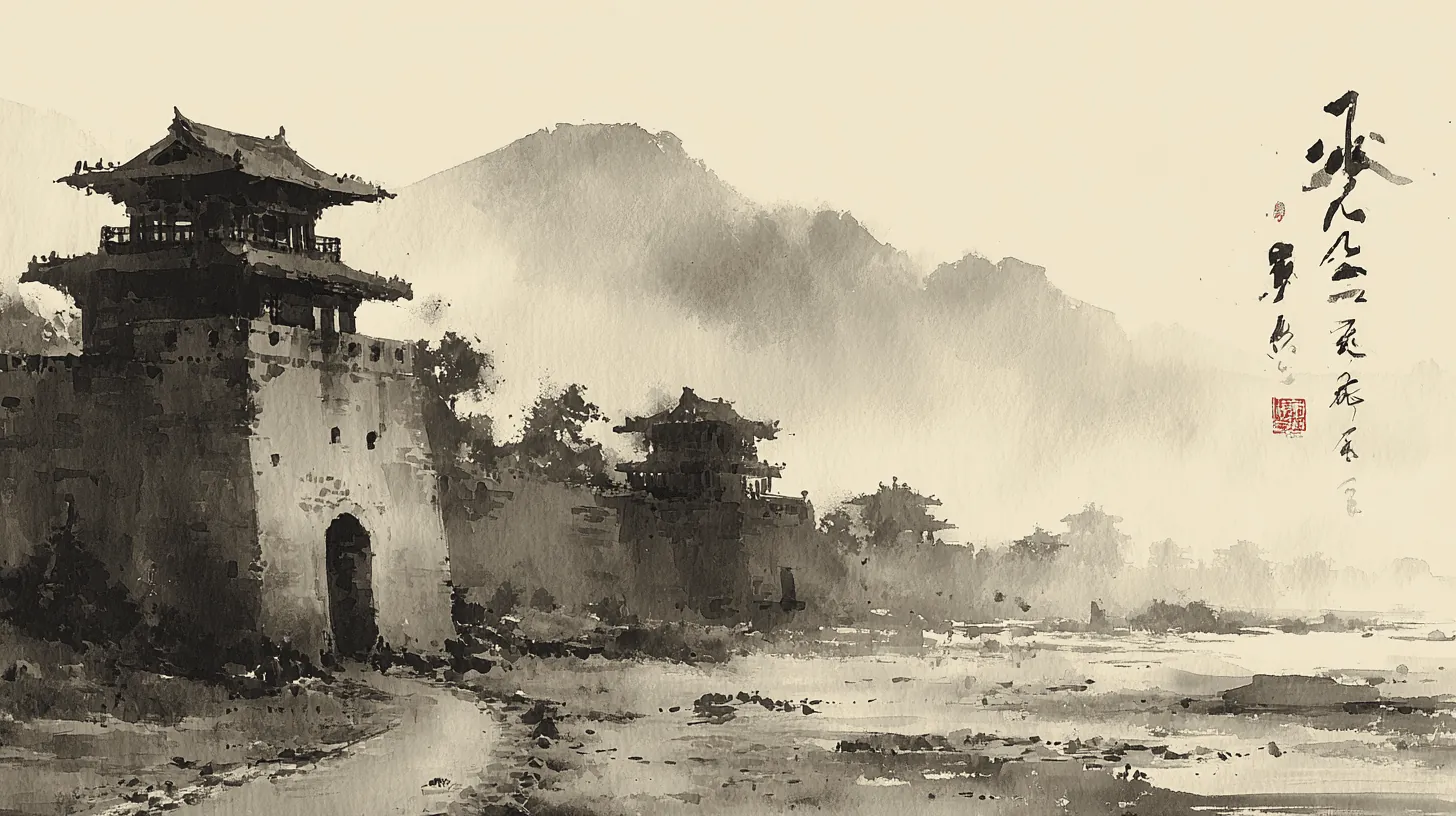
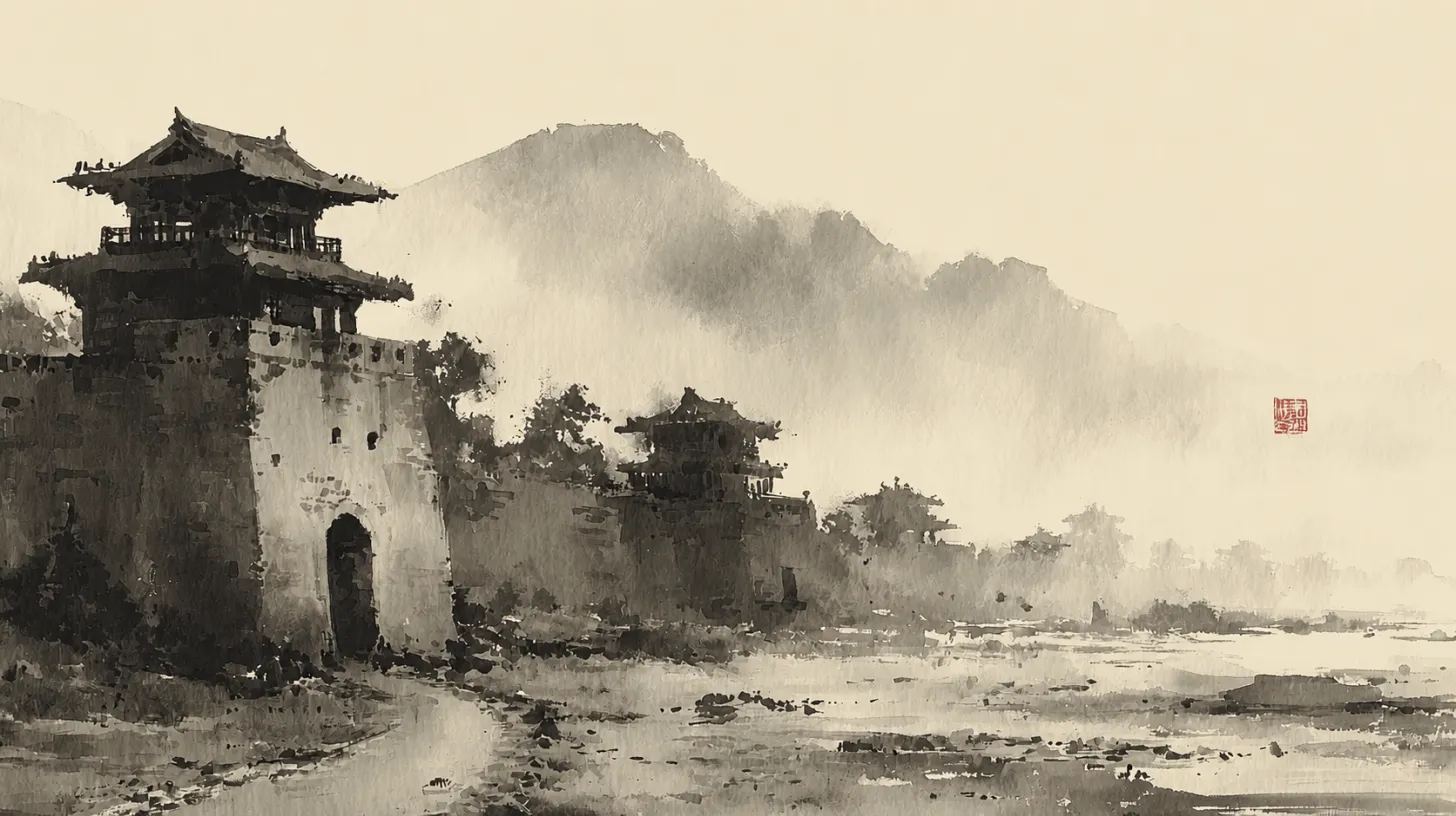
[READY] C1 场景题字清查:20 张伪题字清除+ns_02_02 返修补印(Claude 复检 20/20 过)
- battle 5+cover 3+narrative 105 张全查命中 12,题字清/朱红印章保留
- ns_02_02 返修:题字连体印误删,补左下小朱印恢复批内母题一致
- contact sheet 证据挪 build/visual_acceptance/(gitignored 不入 git);spec_check.tsv 判定表随 git
- 双验证放行制首例:用户次日复检,异议点名返修

diff --git a/REPORT_C1.md b/REPORT_C1.md
@@ -1,0 +1,196 @@
+# 夜批单 C1 · 场景图伪文字题字清查报告
+
+状态：**[READY]**
+
+- 日期：2026-08-06（执行跨至本地 2026-08-07）
+- 分支：`codex/tonight-inscription`
+- 基线：`74a7993c`
+- 范围：仅 `assets/scenes/` 内本单目标图、`docs/dispatch_evidence/inscription_2026-08-06/` 与本报告
+- Flutter：按任务要求未运行
+
+## 结果摘要
+
+- 已确认清单：8/8 张完成。
+- `narrative_stage_*.png`：105/105 张逐张放大目检；12 张有多字题字或伪字形并完成处理，93 张无目标问题、不处理。
+- 合计处理：20 张。
+- 所有处理图均保持原尺寸 `1456×816`、原数据格式 WebP（文件扩展名仍为 `.png`），以 `cwebp -q 80` 压回。
+- 放大初检：20/20 未见冒充可读文本的多字题字、伪汉字、伪英文或签名残留。
+- 印章：C1 复检返修后，本批 20/20 张均保留暗红/朱红印章母题；`narrative_stage_02_02.png` 已补回同批风格小印。
+- [BLOCKED]：无。
+
+## Phase 0 判定依据
+
+工作树检出会刷新文件系统 mtime，因此不能直接复现历史的“2026-07-02 21:17”时间戳。改用 Git 首次纳入历史确认早期批次为 `narrative_stage_01_01.png` 至 `narrative_stage_06_05.png` 共 30 张，同时仍对当前库内全部 105 张 `narrative_stage_*.png` 做了逐张放大目检；07–21 章共 75 张均无本单目标问题。
+
+### Phase 0 全量精确判定表
+
+| 文件名 | 有无题字 | 题字位置 | 是否处理 |
+|---|---|---|---|
+| `narrative_stage_01_01.png` | 无 | — | 否 |
+| `narrative_stage_01_02.png` | 有 | 左下多字题字；门侧小牌伪字形 | 是 |
+| `narrative_stage_01_03.png` | 有 | 右下多字题字 | 是 |
+| `narrative_stage_01_04.png` | 无 | — | 否 |
+| `narrative_stage_01_05.png` | 有 | 右下印章上方多字题字 | 是 |
+| `narrative_stage_02_01.png` | 有 | 右下落款；车队旗面伪字形 | 是 |
+| `narrative_stage_02_02.png` | 有 | 左下多字题字 | 是 |
+| `narrative_stage_02_03.png` | 有 | 画面中央及背景卷轴、牌匾伪字形 | 是 |
+| `narrative_stage_02_04.png` | 无 | — | 否 |
+| `narrative_stage_02_05.png` | 有 | 左下伪英文签名 | 是 |
+| `narrative_stage_03_01.png` | 有 | 左上多列题字 | 是 |
+| `narrative_stage_03_02.png` | 有 | 擂台红幡及上方中立牌匾伪字形 | 是 |
+| `narrative_stage_03_03.png` | 无 | — | 否 |
+| `narrative_stage_03_04.png` | 无 | — | 否 |
+| `narrative_stage_03_05.png` | 无 | — | 否 |
+| `narrative_stage_04_01.png` | 有 | 右上多字题字 | 是 |
+| `narrative_stage_04_02.png` | 无 | — | 否 |
+| `narrative_stage_04_03.png` | 无 | — | 否 |
+| `narrative_stage_04_04.png` | 有 | 红色、浅色军旗伪字形 | 是 |
+| `narrative_stage_04_05.png` | 无 | — | 否 |
+| `narrative_stage_05_01.png` | 无 | — | 否 |
+| `narrative_stage_05_02.png` | 无 | — | 否 |
+| `narrative_stage_05_03.png` | 无 | — | 否 |
+| `narrative_stage_05_04.png` | 无 | — | 否 |
+| `narrative_stage_05_05.png` | 无 | — | 否 |
+| `narrative_stage_06_01.png` | 无 | — | 否 |
+| `narrative_stage_06_02.png` | 无 | — | 否 |
+| `narrative_stage_06_03.png` | 有 | 右上多字题字 | 是 |
+| `narrative_stage_06_04.png` | 无 | — | 否 |
+| `narrative_stage_06_05.png` | 无 | — | 否 |
+| `narrative_stage_07_01.png` | 无 | — | 否 |
+| `narrative_stage_07_02.png` | 无 | — | 否 |
+| `narrative_stage_07_03.png` | 无 | — | 否 |
+| `narrative_stage_07_04.png` | 无 | — | 否 |
+| `narrative_stage_07_05.png` | 无 | — | 否 |
+| `narrative_stage_08_01.png` | 无 | — | 否 |
+| `narrative_stage_08_02.png` | 无 | — | 否 |
+| `narrative_stage_08_03.png` | 无 | — | 否 |
+| `narrative_stage_08_04.png` | 无 | — | 否 |
+| `narrative_stage_08_05.png` | 无 | — | 否 |
+| `narrative_stage_09_01.png` | 无 | — | 否 |
+| `narrative_stage_09_02.png` | 无 | — | 否 |
+| `narrative_stage_09_03.png` | 无 | — | 否 |
+| `narrative_stage_09_04.png` | 无 | — | 否 |
+| `narrative_stage_09_05.png` | 无 | — | 否 |
+| `narrative_stage_10_01.png` | 无 | — | 否 |
+| `narrative_stage_10_02.png` | 无 | — | 否 |
+| `narrative_stage_10_03.png` | 无 | — | 否 |
+| `narrative_stage_10_04.png` | 无 | — | 否 |
+| `narrative_stage_10_05.png` | 无 | — | 否 |
+| `narrative_stage_11_01.png` | 无 | — | 否 |
+| `narrative_stage_11_02.png` | 无 | — | 否 |
+| `narrative_stage_11_03.png` | 无 | — | 否 |
+| `narrative_stage_11_04.png` | 无 | — | 否 |
+| `narrative_stage_11_05.png` | 无 | — | 否 |
+| `narrative_stage_12_01.png` | 无 | — | 否 |
+| `narrative_stage_12_02.png` | 无 | — | 否 |
+| `narrative_stage_12_03.png` | 无 | — | 否 |
+| `narrative_stage_12_04.png` | 无 | — | 否 |
+| `narrative_stage_12_05.png` | 无 | — | 否 |
+| `narrative_stage_13_01.png` | 无 | — | 否 |
+| `narrative_stage_13_02.png` | 无 | — | 否 |
+| `narrative_stage_13_03.png` | 无 | — | 否 |
+| `narrative_stage_13_04.png` | 无 | — | 否 |
+| `narrative_stage_13_05.png` | 无 | — | 否 |
+| `narrative_stage_14_01.png` | 无 | — | 否 |
+| `narrative_stage_14_02.png` | 无 | — | 否 |
+| `narrative_stage_14_03.png` | 无 | — | 否 |
+| `narrative_stage_14_04.png` | 无 | — | 否 |
+| `narrative_stage_14_05.png` | 无 | — | 否 |
+| `narrative_stage_15_01.png` | 无 | — | 否 |
+| `narrative_stage_15_02.png` | 无 | — | 否 |
+| `narrative_stage_15_03.png` | 无 | — | 否 |
+| `narrative_stage_15_04.png` | 无 | — | 否 |
+| `narrative_stage_15_05.png` | 无 | — | 否 |
+| `narrative_stage_16_01.png` | 无 | — | 否 |
+| `narrative_stage_16_02.png` | 无 | — | 否 |
+| `narrative_stage_16_03.png` | 无 | — | 否 |
+| `narrative_stage_16_04.png` | 无 | — | 否 |
+| `narrative_stage_16_05.png` | 无 | — | 否 |
+| `narrative_stage_17_01.png` | 无 | — | 否 |
+| `narrative_stage_17_02.png` | 无 | — | 否 |
+| `narrative_stage_17_03.png` | 无 | — | 否 |
+| `narrative_stage_17_04.png` | 无 | — | 否 |
+| `narrative_stage_17_05.png` | 无 | — | 否 |
+| `narrative_stage_18_01.png` | 无 | — | 否 |
+| `narrative_stage_18_02.png` | 无 | — | 否 |
+| `narrative_stage_18_03.png` | 无 | — | 否 |
+| `narrative_stage_18_04.png` | 无 | — | 否 |
+| `narrative_stage_18_05.png` | 无 | — | 否 |
+| `narrative_stage_19_01.png` | 无 | — | 否 |
+| `narrative_stage_19_02.png` | 无 | — | 否 |
+| `narrative_stage_19_03.png` | 无 | — | 否 |
+| `narrative_stage_19_04.png` | 无 | — | 否 |
+| `narrative_stage_19_05.png` | 无 | — | 否 |
+| `narrative_stage_20_01.png` | 无 | — | 否 |
+| `narrative_stage_20_02.png` | 无 | — | 否 |
+| `narrative_stage_20_03.png` | 无 | — | 否 |
+| `narrative_stage_20_04.png` | 无 | — | 否 |
+| `narrative_stage_20_05.png` | 无 | — | 否 |
+| `narrative_stage_21_01.png` | 无 | — | 否 |
+| `narrative_stage_21_02.png` | 无 | — | 否 |
+| `narrative_stage_21_03.png` | 无 | — | 否 |
+| `narrative_stage_21_04.png` | 无 | — | 否 |
+| `narrative_stage_21_05.png` | 无 | — | 否 |
+
+
+## 已处理图片与逐张自检
+
+“规格通过”表示同尺寸、同数据格式；每张的字节数和 SHA-256 见证据目录中的 `spec_check.tsv`。
+
+| 文件名 | 来源 | 原问题位置 | 方法 | 规格 | 零伪文字 | 印章 |
+|---|---|---|---|---|---|---|
+| `battle_frontier.png` | 确认清单 | 右侧竖列题字 | 参考图锚定同构重出/局部修补 | 通过 | 放大目检通过 | 原有暗红印章保留 |
+| `battle_dock.png` | 确认清单 | 左上多字题字 | 参考图锚定同构重出/局部修补 | 通过 | 放大目检通过 | 原有暗红印章保留 |
+| `battle_escortroad.png` | 确认清单 | 左上多字题字 | 参考图锚定同构重出/局部修补 | 通过 | 放大目检通过 | 原有暗红印章保留 |
+| `battle_teahouse.png` | 确认清单 | 左上多字题字 | 参考图锚定同构重出/局部修补 | 通过 | 放大目检通过 | 原有暗红印章保留 |
+| `battle_temple.png` | 确认清单 | 左上多字题字 | 参考图锚定同构重出/局部修补 | 通过 | 放大目检通过 | 原有暗红印章保留 |
+| `chapter_02_cover.png` | 确认清单 | 左侧多字题字；门侧小牌伪字形 | 参考图锚定重出＋局部二次修补 | 通过 | 放大目检通过 | 原有暗红印章保留 |
+| `chapter_04_cover.png` | 确认清单 | 右侧多字题字 | 参考图锚定同构重出/局部修补 | 通过 | 放大目检通过 | 原有暗红印章保留 |
+| `chapter_06_cover.png` | 确认清单 | 左上多字题字 | 参考图锚定同构重出/局部修补 | 通过 | 放大目检通过 | 原有暗红印章保留 |
+| `narrative_stage_01_02.png` | Phase 0 | 左下多字题字；门侧小牌伪字形 | 参考图锚定同构重出/局部修补 | 通过 | 放大目检通过 | 原有暗红印章保留 |
+| `narrative_stage_01_03.png` | Phase 0 | 右下多字题字 | 参考图锚定同构重出/局部修补 | 通过 | 放大目检通过 | 原有暗红印章保留 |
+| `narrative_stage_01_05.png` | Phase 0 | 右下印章上方多字题字 | 参考图锚定同构重出/局部修补 | 通过 | 放大目检通过 | 原有暗红印章保留 |
+| `narrative_stage_02_01.png` | Phase 0 | 右下落款；车队旗面伪字形 | 参考图锚定同构重出/局部修补 | 通过 | 放大目检通过 | 原有暗红印章保留 |
+| `narrative_stage_02_02.png` | Phase 0 | 左下多字题字 | C1 复检返修：复用同批印章母题，左下水岸留白补暗红小印 | 通过 | 放大目检通过 | **返修通过：无题字，暗红印章已补回** |
+| `narrative_stage_02_03.png` | Phase 0 | 画面中央及背景卷轴、牌匾伪字形 | 参考图锚定同构重出/局部修补 | 通过 | 放大目检通过 | 原图无章，未新增 |
+| `narrative_stage_02_05.png` | Phase 0 | 左下伪英文签名 | 参考图锚定同构重出/局部修补 | 通过 | 放大目检通过 | 原图无章，未新增 |
+| `narrative_stage_03_01.png` | Phase 0 | 左上多列题字 | 参考图锚定同构重出/局部修补 | 通过 | 放大目检通过 | 原有暗红印章保留 |
+| `narrative_stage_03_02.png` | Phase 0 | 擂台红幡及上方中立牌匾伪字形 | 参考图锚定重出＋局部二次修补 | 通过 | 放大目检通过 | 原图无章，未新增 |
+| `narrative_stage_04_01.png` | Phase 0 | 右上多字题字 | 参考图锚定同构重出/局部修补 | 通过 | 放大目检通过 | 原有暗红印章保留 |
+| `narrative_stage_04_04.png` | Phase 0 | 红色、浅色军旗伪字形 | 参考图锚定同构重出/局部修补 | 通过 | 放大目检通过 | 原有暗红印章保留 |
+| `narrative_stage_06_03.png` | Phase 0 | 右上多字题字 | 参考图锚定同构重出/局部修补 | 通过 | 放大目检通过 | 原有暗红印章保留 |
+
+## 处理方法与提示词口径
+
+使用内置 `image_gen` 的参考图锚定编辑，以原图为唯一构图参照；按画面情况选择同构重出或局部修补。输出后统一压回 WebP q80，并同名覆盖。二次复检发现两处小残留后再次定点处理：
+
+- `chapter_02_cover.png`：补清门侧小牌伪字形。
+- `narrative_stage_03_02.png`：补清擂台幡面细小笔画。
+
+实际使用的规范化提示词集合如下（每张仅替换方括号中的对象/位置）：
+
+> Use case: precise-object-edit. Input image: Image 1 is the exact edit target and composition anchor. Remove [specific multi-character calligraphy, pseudo-glyphs, pseudo-English signature, or banner/placard markings] and naturally reconstruct [the matching paper, wall, cloth, mist, or landscape surface]. Keep the exact crop, composition, palette, ink-wash brushwork, lighting, texture, and all scene objects. Preserve every existing dark-cinnabar/red seal as a single non-text decorative seal. No Chinese characters, pseudo-Chinese glyphs, English letters, signatures, captions, labels, watermarks, or readable writing outside the seal motifs. Do not add or remove unrelated objects. Use environmental and weather language only.
+
+旗幡、卷轴与牌匾场景另加：目标载体保留为空白布面/纸面/木面，不改变其位置、数量和形状。
+
+## 证据
+
+- `build/visual_acceptance/2026-08-06_inscription/contact_sheet_01.png`：5 张 battle 图 before/after。
+- `build/visual_acceptance/2026-08-06_inscription/contact_sheet_02.png`：3 张 chapter cover＋`01_02`、`01_03` before/after。
+- `build/visual_acceptance/2026-08-06_inscription/contact_sheet_03.png`：`01_05`、`02_01`、`02_02`、`02_03`、`02_05` before/after。
+- `build/visual_acceptance/2026-08-06_inscription/contact_sheet_04.png`：`03_01`、`03_02`、`04_01`、`04_04`、`06_03` before/after。
+- `docs/dispatch_evidence/inscription_2026-08-06/spec_check.tsv`：20 张逐图尺寸、格式、编码参数、字节数与结果哈希。
+
+## 第二轮交叉复检
+
+对 20 张处理结果的四张 before/after contact sheet 做了逐角落复检，重点检查题字原位置、门牌、旗面、卷轴、牌匾和画面边缘。初轮发现的两处小残留已二次修补并重新生成证据；最终未见已知伪文字残留。构图、色调、水墨笔触和暗红印章母题均保持在同一视觉语系。
+
+## 剩余风险
+
+- 视觉终拍仍由用户完成；本报告仅代表执行侧放大初检。
+- 参考图重出会产生局部笔触与纹理差异，虽已通过同构图和整体风格复检，但不等同像素级修复。
+- 当前无已知未处理目标，也无需要留终审的 [BLOCKED] 图片。
+
+## 边界与红线检查
+
+未修改 `lib/`、`test/`、`data/`、`pubspec.yaml`、`assets/` 其他子目录或非本单文档；未涉及数值、玩法、文案配置或三系规则。
